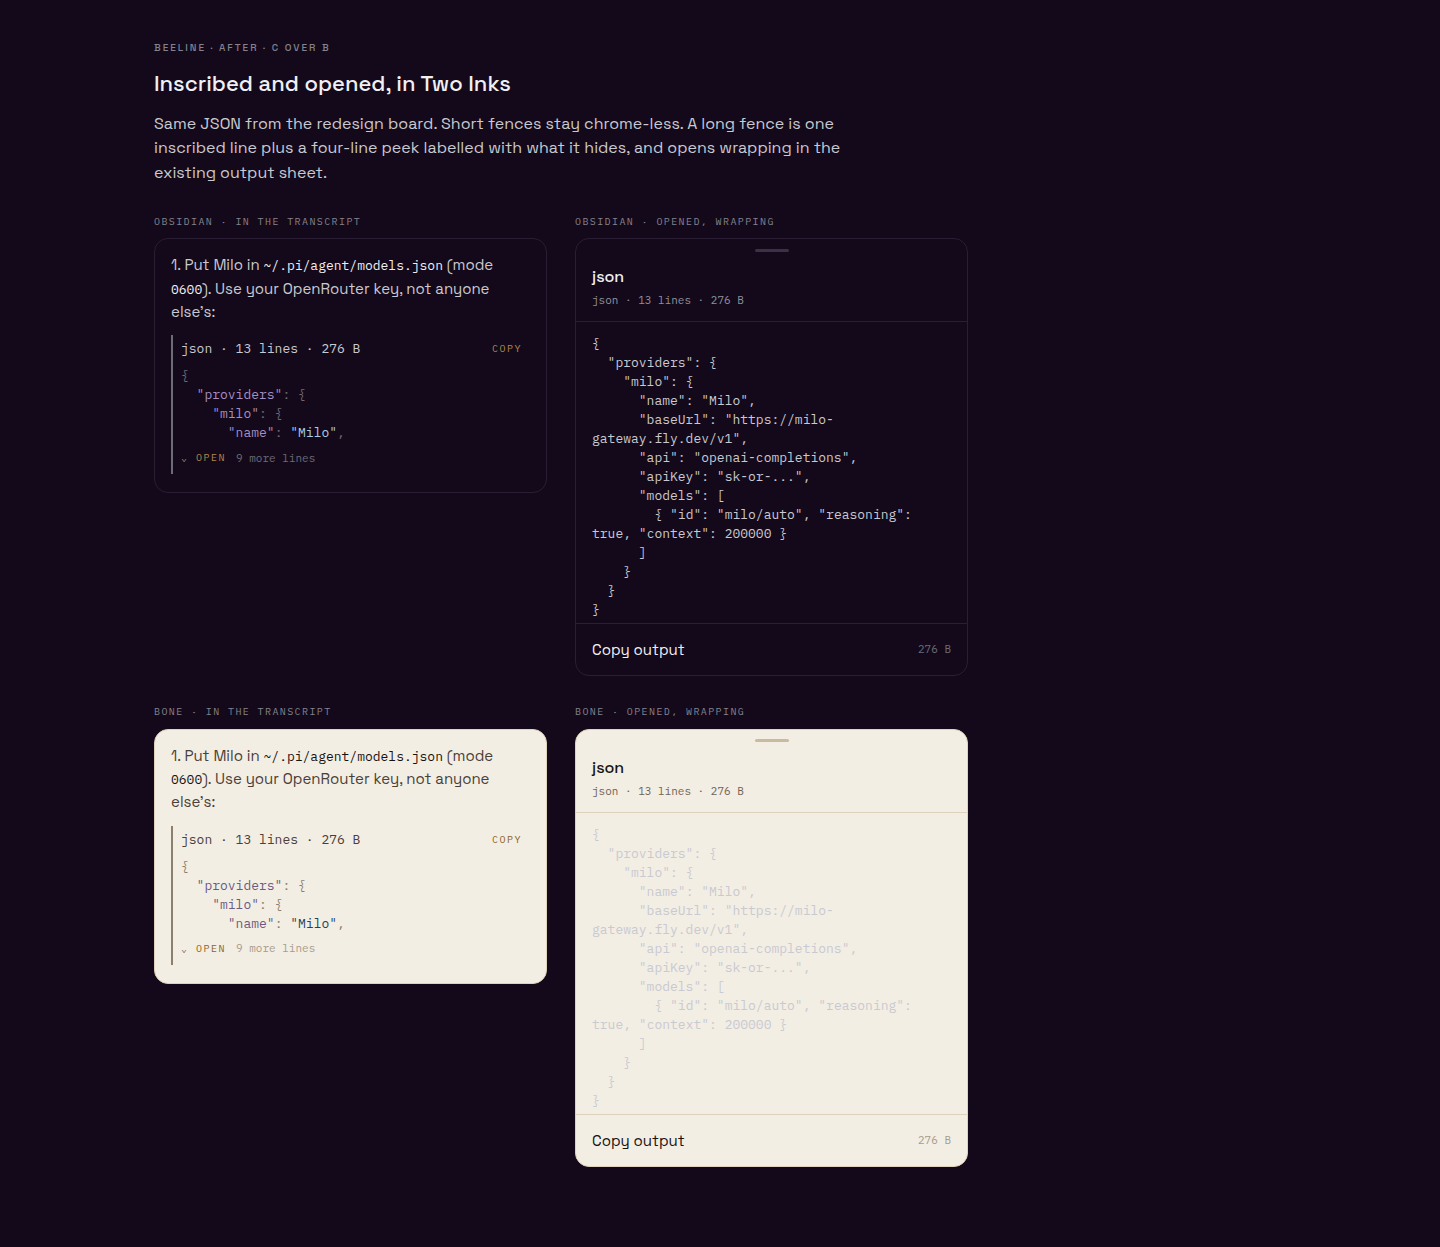
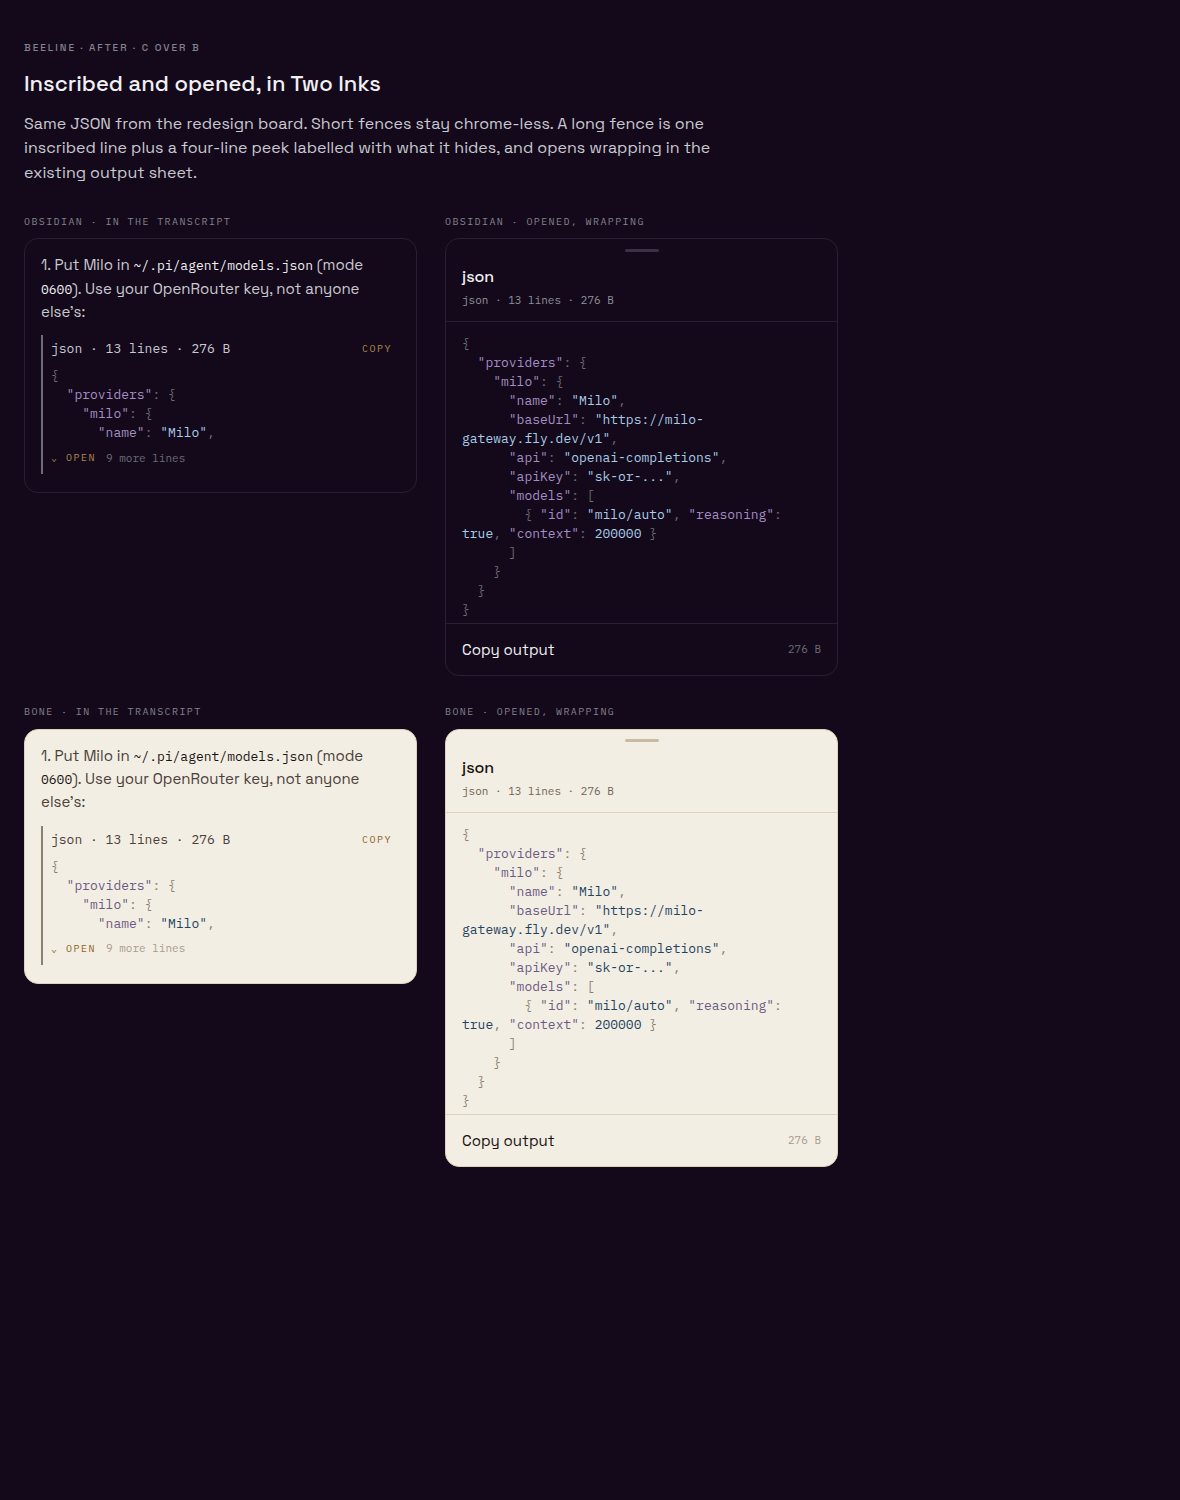
no-mistakes(review): Fix opened frame palettes and simplify tokenizer language handling

diff --git a/apps/mobile/sources/buzz/syntax-highlight.ts b/apps/mobile/sources/buzz/syntax-highlight.ts
@@ -1,10 +1,6 @@
 /**
  * Lightweight, zero-dependency syntax tokenizer for React Native.
  *
- * Three roles — structure, name, value — for Two Inks. Honours the fence
- * language: JSON/YAML distinguish keys from values; comment rules follow the
- * language so `https://` and CSS hex values are not painted as comments.
- *
  * DESIGN: keyword/type/builtin words are matched as literal word-boundary
  * patterns so they never get merged into a plain-text run.  The function-call
  * pattern (ident followed by `(`) is checked AFTER those, so `async ()`
@@ -32,18 +28,6 @@ type ScanToken =
   | 'plain';
 
 type ScanSpan = { token: ScanToken; text: string };
-
-type LanguageKind =
-  | 'json'
-  | 'jsonc'
-  | 'yaml'
-  | 'js'
-  | 'css'
-  | 'html'
-  | 'python'
-  | 'shell'
-  | 'sql'
-  | 'other';
 
 const JS_KEYWORDS = new Set([
   'abstract', 'arguments', 'as', 'assert', 'async', 'await', 'break', 'case',
@@ -113,7 +97,6 @@ const HASH_COMMENT: ScanPattern = {
   allowAt: (line, pos) => pos === 0 || /\s/.test(line[pos - 1] ?? ''),
 };
 const HTML_COMMENT: ScanPattern = { pattern: /<!--[\s\S]*?-->/g, token: 'comment' };
-const SQL_LINE_COMMENT: ScanPattern = { pattern: /--.*/g, token: 'comment' };
 
 const MARKUP_PATTERNS: ScanPattern[] = [
   { pattern: /<\/?[a-zA-Z][\w-]*>/g, token: 'tag' },
@@ -137,108 +120,27 @@ const PUNCTUATION_PATTERNS: ScanPattern[] = [
   { pattern: /[{}()\[\];,.:!]/g, token: 'punctuation' },
 ];
 
-function languageKind(language: string | null): LanguageKind {
-  const normalized = language?.trim().toLowerCase() ?? '';
-  if (normalized === 'json') return 'json';
-  if (normalized === 'jsonc' || normalized === 'json5') return 'jsonc';
-  if (normalized === 'yaml' || normalized === 'yml') return 'yaml';
-  if (
-    normalized === 'js' ||
-    normalized === 'javascript' ||
-    normalized === 'ts' ||
-    normalized === 'typescript' ||
-    normalized === 'jsx' ||
-    normalized === 'tsx' ||
-    normalized === 'mjs' ||
-    normalized === 'cjs'
-  ) {
-    return 'js';
-  }
-  if (normalized === 'css' || normalized === 'scss' || normalized === 'less') return 'css';
-  if (normalized === 'html' || normalized === 'xml' || normalized === 'svg') return 'html';
-  if (normalized === 'python' || normalized === 'py') return 'python';
-  if (
-    normalized === 'sh' ||
-    normalized === 'bash' ||
-    normalized === 'zsh' ||
-    normalized === 'shell' ||
-    normalized === 'zshrc'
-  ) {
-    return 'shell';
-  }
-  if (normalized === 'sql') return 'sql';
-  return 'other';
-}
+const JSON_PATTERNS: ScanPattern[] = [
+  ...STRING_PATTERNS,
+  NUMBER_PATTERN,
+  { pattern: /\b(?:true|false|null)\b/g, token: 'number' },
+  ...PUNCTUATION_PATTERNS,
+];
 
-function commentPatterns(kind: LanguageKind): ScanPattern[] {
-  switch (kind) {
-    case 'json':
-      return [];
-    case 'jsonc':
-    case 'js':
-    case 'other':
-      return [SLASH_LINE_COMMENT, BLOCK_COMMENT];
-    case 'css':
-      return [BLOCK_COMMENT];
-    case 'html':
-      return [HTML_COMMENT];
-    case 'python':
-    case 'yaml':
-    case 'shell':
-      return [HASH_COMMENT];
-    case 'sql':
-      return [SQL_LINE_COMMENT, BLOCK_COMMENT];
-  }
-}
-
-function scanPatterns(kind: LanguageKind): ScanPattern[] {
-  const comments = commentPatterns(kind);
-  if (kind === 'json' || kind === 'jsonc') {
-    return [
-      ...STRING_PATTERNS,
-      ...comments,
-      NUMBER_PATTERN,
-      { pattern: /\b(?:true|false|null)\b/g, token: 'number' },
-      ...PUNCTUATION_PATTERNS,
-    ];
-  }
-  if (kind === 'yaml') {
-    return [
-      ...STRING_PATTERNS,
-      ...comments,
-      NUMBER_PATTERN,
-      { pattern: /\b(?:true|false|null|yes|no|on|off)\b/gi, token: 'number' },
-      ...PUNCTUATION_PATTERNS,
-    ];
-  }
-  if (kind === 'css') {
-    return [
-      ...STRING_PATTERNS,
-      ...comments,
-      { pattern: /#[0-9a-fA-F]{3,8}\b/g, token: 'number' },
-      NUMBER_PATTERN,
-      { pattern: /\b[a-zA-Z_][\w-]*(?=\s*:)/g, token: 'attrName' },
-      ...PUNCTUATION_PATTERNS,
-    ];
-  }
-  if (kind === 'html') {
-    return [...comments, ...STRING_PATTERNS, ...MARKUP_PATTERNS, NUMBER_PATTERN, ...PUNCTUATION_PATTERNS];
-  }
-  if (kind === 'shell' || kind === 'python') {
-    return [...STRING_PATTERNS, ...comments, NUMBER_PATTERN, ...PUNCTUATION_PATTERNS];
-  }
-  return [
-    ...STRING_PATTERNS,
-    ...comments,
-    ...MARKUP_PATTERNS,
-    NUMBER_PATTERN,
-    { pattern: KEYWORD_PATTERN, token: 'keyword' },
-    { pattern: TYPE_PATTERN, token: 'type' },
-    { pattern: BUILTIN_PATTERN, token: 'builtin' },
-    FUNCTION_PATTERN,
-    ...PUNCTUATION_PATTERNS,
-  ];
-}
+const GENERIC_PATTERNS: ScanPattern[] = [
+  SLASH_LINE_COMMENT,
+  BLOCK_COMMENT,
+  HASH_COMMENT,
+  HTML_COMMENT,
+  ...STRING_PATTERNS,
+  ...MARKUP_PATTERNS,
+  NUMBER_PATTERN,
+  { pattern: KEYWORD_PATTERN, token: 'keyword' },
+  { pattern: TYPE_PATTERN, token: 'type' },
+  { pattern: BUILTIN_PATTERN, token: 'builtin' },
+  FUNCTION_PATTERN,
+  ...PUNCTUATION_PATTERNS,
+];
 
 function classifyReserved(word: string): ScanToken | null {
   if (JS_KEYWORDS.has(word)) return 'keyword';
@@ -247,10 +149,9 @@ function classifyReserved(word: string): ScanToken | null {
   return null;
 }
 
-function scanLine(line: string, kind: LanguageKind): ScanSpan[] {
+function scanLine(line: string, patterns: ScanPattern[]): ScanSpan[] {
   const spans: ScanSpan[] = [];
   let pos = 0;
-  const patterns = scanPatterns(kind);
 
   const append = (token: ScanToken, text: string) => {
     if (!text) return;
@@ -326,17 +227,11 @@ function scanToRole(token: ScanToken): HighlightToken {
   }
 }
 
-function promoteKeyedStrings(spans: ScanSpan[], kind: LanguageKind): TokenSpan[] {
-  const keyed = kind === 'json' || kind === 'jsonc' || kind === 'yaml';
+function promoteKeyedStrings(spans: ScanSpan[], isJson: boolean): TokenSpan[] {
   return spans.map((span, index) => {
-    if (keyed && span.token === 'string') {
+    if (isJson && span.token === 'string') {
       const next = nextSignificant(spans, index);
       return { token: next?.text.startsWith(':') ? 'name' : 'value', text: span.text };
-    }
-    if (keyed && span.token === 'plain' && /^\s*[A-Za-z_][\w-]*\s*$/.test(span.text)) {
-      const next = nextSignificant(spans, index);
-      if (next?.text.startsWith(':')) return { token: 'name', text: span.text };
-      if (kind === 'yaml') return { token: 'value', text: span.text };
     }
     if (span.token === 'type' && VALUE_LITERALS.has(span.text)) {
       return { token: 'value', text: span.text };
@@ -360,8 +255,8 @@ function mergeRoles(spans: TokenSpan[]): TokenSpan[] {
 }
 
 function tokenizeLine(line: string, language: string | null): TokenSpan[] {
-  const kind = languageKind(language);
-  return mergeRoles(promoteKeyedStrings(scanLine(line, kind), kind));
+  const isJson = language?.trim().toLowerCase() === 'json';
+  return mergeRoles(promoteKeyedStrings(scanLine(line, isJson ? JSON_PATTERNS : GENERIC_PATTERNS), isJson));
 }
 
 export type TokenizedLine = TokenSpan[];

diff --git a/apps/mobile/sources/components/buzz/CodeHighlighter.test.ts b/apps/mobile/sources/components/buzz/CodeHighlighter.test.ts
@@ -163,20 +163,15 @@ describe('tokenizeCode', () => {
     );
   });
 
-  it('does not paint a CSS hex as a comment', () => {
-    const code = 'color: #f3eee4;';
-    expect(flattenTokens(tokenizeCode(code, 'css'))).toBe(code);
-    const tokens = tokenizeCode(code, 'css').flat();
-    expect(tokens.some((t) => t.token === 'structure' && t.text.includes('f3eee4'))).toBe(false);
-    expect(tokens.some((t) => t.text.includes('#f3eee4'))).toBe(true);
-  });
-
-  it('treats a YAML key as a name', () => {
-    const tokens = tokenizeCode('name: build', 'yaml').flat();
-    expect(flattenTokens(tokenizeCode('name: build', 'yaml'))).toBe('name: build');
-    expect(tokens.some((t) => t.token === 'name' && t.text.includes('name'))).toBe(true);
-    expect(tokens.some((t) => t.token === 'structure' && t.text.includes(':'))).toBe(true);
-  });
+  it.each(['jsonc', 'json5', 'yaml', 'yml', 'css', 'html', 'python', 'bash', 'sql'])(
+    'uses the generic scanner for %s',
+    (language) => {
+      const code = '{ "name": "Milo", "reasoning": true }\nconst x = 42; # note';
+      expect(tokenizeCode(code, language)).toEqual(tokenizeCode(code, null));
+      expect(flattenTokens(tokenizeCode(code, language))).toBe(code);
+      expect(tokenizeCode(code, language)[0]).not.toEqual(tokenizeCode(code, 'json')[0]);
+    },
+  );
 
   it('handles empty string', () => {
     expect(flattenTokens(tokenizeCode('', 'typescript'))).toBe('');

diff --git a/apps/mobile/design/codeblock-c-over-b-after.html b/apps/mobile/design/codeblock-c-over-b-after.html
@@ -36,8 +36,8 @@ h1{margin:0;font-weight:500;color:#f0f0f3;font-size:22px}
 .cl{font-family:var(--mono);font-size:13px;line-height:19px}
 .cl code{font:inherit;white-space:pre-wrap;display:block;word-break:break-word}
 .cl i{font-style:normal}
-.phone--ob .t-s{color:#6c6c76}.phone--ob .t-k{color:#a58ec6}.phone--ob .t-v{color:#a8cde8}
-.phone--bn .t-s{color:#8B7F6E}.phone--bn .t-k{color:#6b5a83}.phone--bn .t-v{color:#1e4460}
+:is(.phone--ob, .sheet--ob) .t-s{color:#6c6c76}:is(.phone--ob, .sheet--ob) .t-k{color:#a58ec6}:is(.phone--ob, .sheet--ob) .t-v{color:#a8cde8}
+:is(.phone--bn, .sheet--bn) .t-s{color:#8B7F6E}:is(.phone--bn, .sheet--bn) .t-k{color:#6b5a83}:is(.phone--bn, .sheet--bn) .t-v{color:#1e4460}
 .inscr{display:flex;align-items:center;justify-content:space-between;gap:8px;margin-bottom:8px;font-family:var(--mono);font-size:13px;line-height:19px}
 .phone--ob .inscr .kind{color:#c9c9d1}.phone--bn .inscr .kind{color:#4A4038}
 .inscr .v{font-size:10px;letter-spacing:1.5px;text-transform:uppercase}
